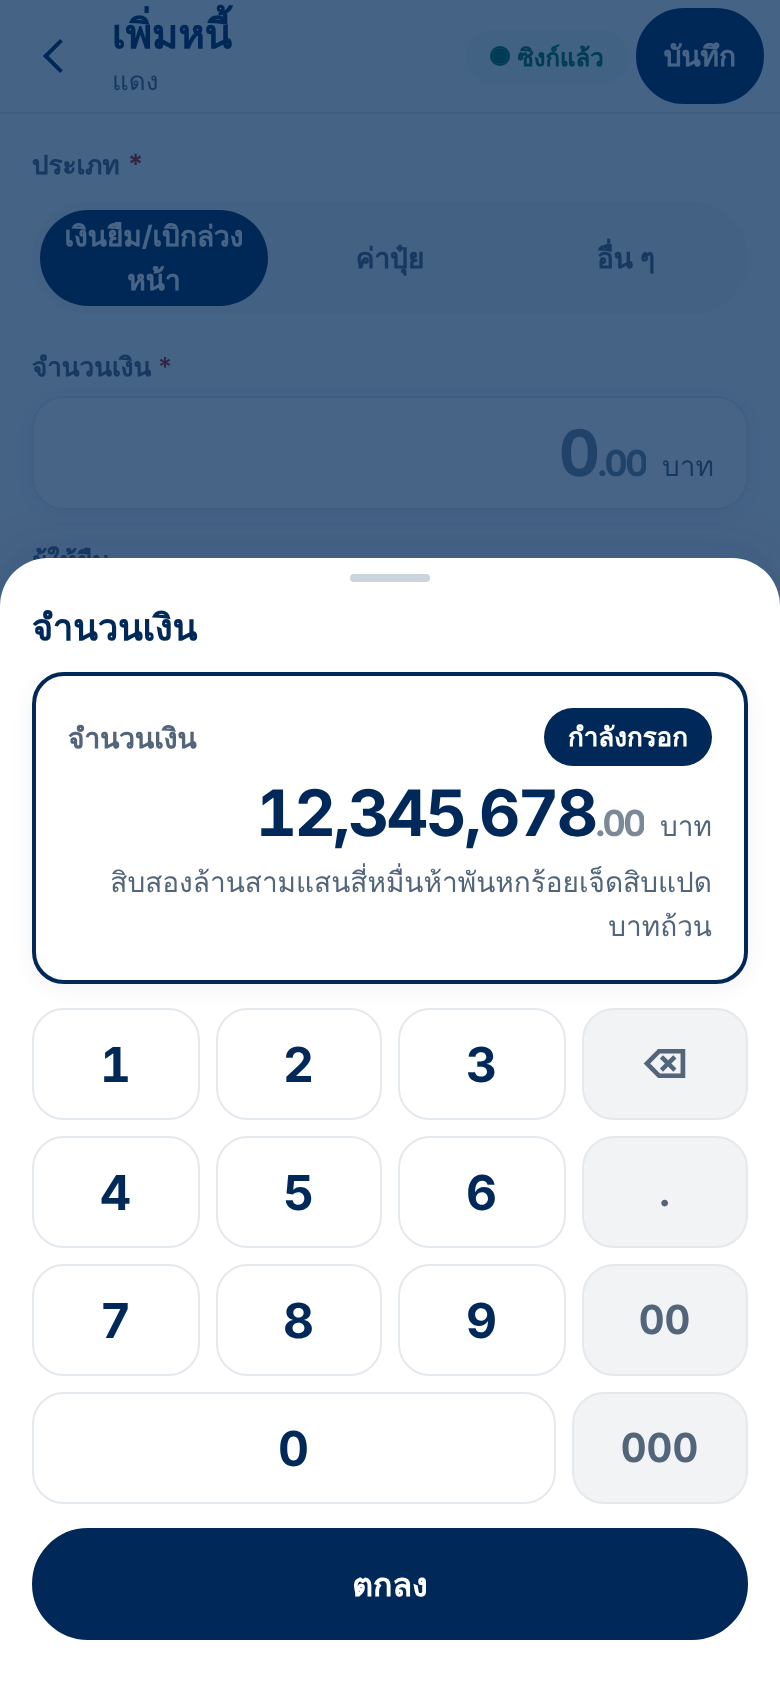
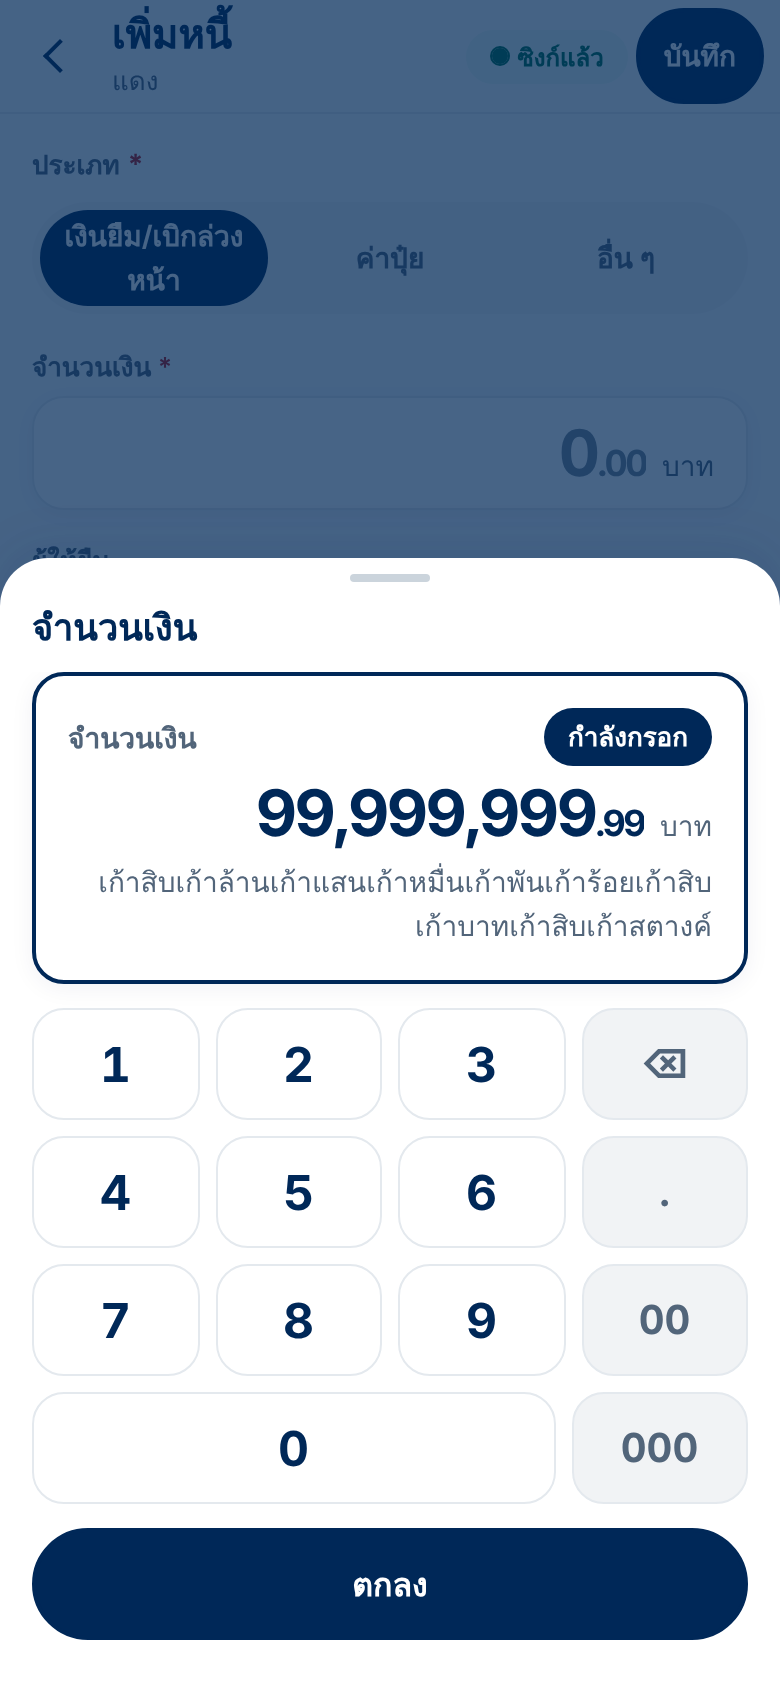
test(money): pin debt pad edges and over-pay flow
Review of rows 9-11: the shared store let one test's debts decide
whether another's payment was "over", so the warning path ran or
not by order. Each test now has its own worker, the over-pay
warning is pinned both ways and cleared by a new amount, and 0,
blank, the 99,999,999.99 maximum and an unchanged plan edit are
covered. Pad shots now show the longest amount.

Claude-Session: https://claude.ai/code/session_01LA7pk7BmFmzuLb6wsHEtey

Changed region(s): [[0.2462, 0.4621, 0.9231, 0.5545], [0.1538, 0.4929, 0.2462, 0.5545]]

diff --git a/src/__tests__/v2-numpad-debt.test.tsx b/src/__tests__/v2-numpad-debt.test.tsx
@@ -56,9 +56,11 @@ const save = async (id: string) => {
   await flush();
 };
 
-beforeEach(async () => {
-  mockParams.current = DAENG;
-  (mockFinance as unknown as { events?: unknown[] }).events?.splice(0);
+// The memory store is shared by the file: each test gets its own worker, so one test's debts never decide another's.
+let n = 0;
+beforeEach(() => {
+  n += 1;
+  mockParams.current = { workerId: `p-np-${n}`, name: DAENG.name };
 });
 
 describe('row 9 debt-amount: the amount of a new debt (NP-4)', () => {
@@ -78,10 +80,11 @@ describe('row 9 debt-amount: the amount of a new debt (NP-4)', () => {
     expect(added[0].fields.kind).toBe('loan');
   });
 
-  it('blank is never saved and says the amount is needed', async () => {
+  it.each([['blank', ''], ['0', '0']])('%s is never saved and says the amount is needed', async (_, text) => {
     const before = (await payloads('debt_added')).length;
     wrap(<AddDebtScreen />);
     await flush();
+    if (text) await enter('debt-amount', text);
     await save('debt-save');
     expect(screen.getAllByText('ใส่จำนวนเงิน').length).toBeGreaterThan(0);
     expect((await payloads('debt_added')).length).toBe(before);
@@ -92,15 +95,36 @@ describe('row 10 debt-pay-amount: a payment (NP-4)', () => {
   it.each([
     ['500', 50_000],
     ['12.5', 1_250],
-  ])('%s → %i satang', async (text, satang) => {
+    ['99999999.99', 9_999_999_999],
+  ])('%s → %i satang (no debt yet: the over-pay warning, then save anyway)', async (text, satang) => {
     const before = (await payloads('debt_payment_recorded')).length;
     wrap(<PayDebtScreen />);
     await flush();
     await enter('debt-pay-amount', text);
     await save('debt-pay-save');
-    if (screen.queryByTestId('debt-pay-anyway')) await save('debt-pay-anyway');
+    expect(screen.getByTestId('debt-pay-over')).toBeTruthy();
+    await save('debt-pay-anyway');
     const paid = (await payloads('debt_payment_recorded')).slice(before);
     expect(paid.map((p) => p.fields.amountSatang)).toEqual([satang]);
+  });
+
+  it('within the balance: no warning, saved at once; a new amount clears an old warning', async () => {
+    wrap(<AddDebtScreen />);
+    await flush();
+    await enter('debt-amount', '1000');
+    await save('debt-save');
+    const before = (await payloads('debt_payment_recorded')).length;
+    wrap(<PayDebtScreen />);
+    await flush();
+    await enter('debt-pay-amount', '2000');
+    await save('debt-pay-save');
+    expect(screen.getByTestId('debt-pay-over')).toBeTruthy();
+    await enter('debt-pay-amount', '400');
+    expect(screen.queryByTestId('debt-pay-over')).toBeNull();
+    expect(screen.getByTestId('debt-pay-save').props.accessibilityState).toMatchObject({ disabled: false });
+    await save('debt-pay-save');
+    expect(screen.queryByTestId('debt-pay-over')).toBeNull();
+    expect((await payloads('debt_payment_recorded')).slice(before).map((p) => p.fields.amountSatang)).toEqual([40_000]);
   });
 
   it('blank or 0 cannot be saved', async () => {
@@ -118,6 +142,7 @@ describe('row 11 debt-plan-amount: instalment per sale (NP-4)', () => {
   it.each([
     ['1500', 150_000],
     ['250.5', 25_050],
+    ['99999999.99', 9_999_999_999],
   ])('%s → %i satang', async (text, satang) => {
     const before = (await payloads('debt_plan_set')).length;
     wrap(<DebtAccountScreen />);
@@ -133,7 +158,27 @@ describe('row 11 debt-plan-amount: instalment per sale (NP-4)', () => {
     wrap(<DebtAccountScreen />);
     await flush();
     await save('debt-plan-edit');
+    expect(screen.getByTestId('debt-plan-save').props.accessibilityState).toMatchObject({ disabled: true });
     await enter('debt-plan-amount', '0');
     expect(screen.getByTestId('debt-plan-save').props.accessibilityState).toMatchObject({ disabled: true });
+  });
+
+  it('editing a plan without changing it saves the same amount (prefill round-trip)', async () => {
+    // A plan belongs to an account, and an account starts with a debt.
+    wrap(<AddDebtScreen />);
+    await flush();
+    await enter('debt-amount', '3000');
+    await save('debt-save');
+    wrap(<DebtAccountScreen />);
+    await flush();
+    await save('debt-plan-edit');
+    await enter('debt-plan-amount', '250.05');
+    await save('debt-plan-save');
+    const before = (await payloads('debt_plan_set')).length;
+    await save('debt-plan-edit');
+    await act(async () => fireEvent.press(screen.getByTestId('debt-plan-amount')));
+    await act(async () => fireEvent.press(screen.getByTestId('debt-plan-amount-done')));
+    await save('debt-plan-save');
+    expect((await payloads('debt_plan_set')).slice(before).map((p) => p.perSaleSatang)).toEqual([25_005]);
   });
 });
